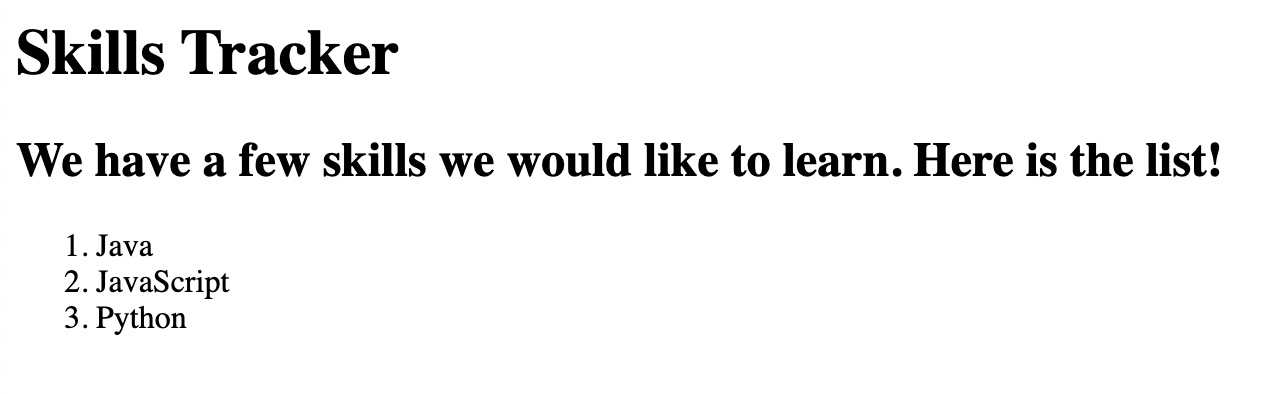
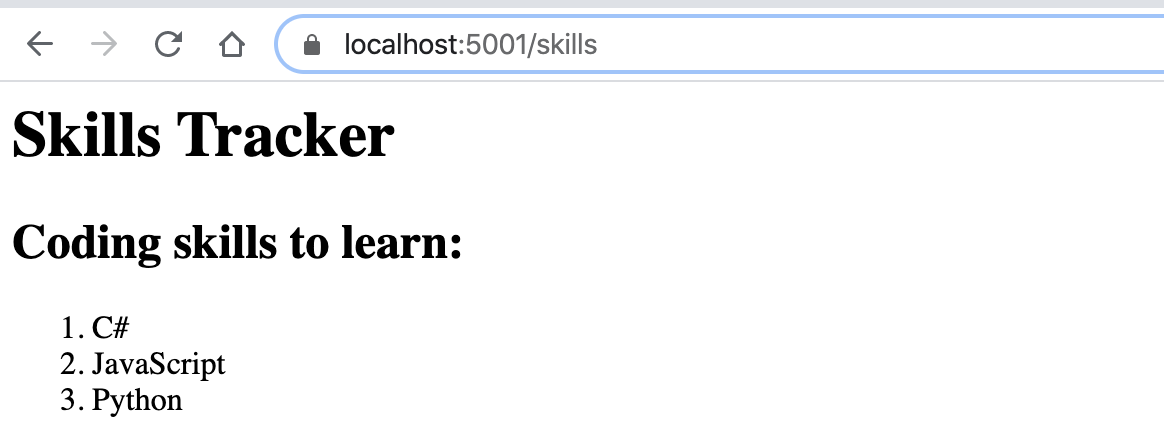
update language on skill tracking elements

diff --git a/src/chapters/aspdotnet-controllers-and-routes/studio.rst b/src/chapters/aspdotnet-controllers-and-routes/studio.rst
@@ -1,7 +1,7 @@
 Studio: Skills Tracker
 ======================
 
-Wouldn't it be nice to have a small tracker to show us what skills we have built and where we are at in learning them?
+Wouldn't it be nice to have a small tracker to show us what programming skills we are working on?
 Let's build something that would let us do just that!
 
 As always, read through the whole studio before starting.
@@ -19,29 +19,36 @@ underlying build errors to fix before coding. Now you are ready to start trackin
 Creating Controllers
 --------------------
 
-In your project, add a class called ``SkillsController`` inside of the ``Controllers`` folder.
+In your project, add a controller class called ``SkillsController`` inside the ``Controllers`` folder.
 Inside ``SkillsController``, you will add several methods to accomplish the following:
 
-#. At ``localhost:5001``, add text that states the three possible programming languages someone could be working on.
+#. At ``localhost:5001/skills``, add text that states the three possible programming languages someone could be working on.
    You need to have an ``h1`` with the title "Skills Tracker", an ``h2``, and an ``ol`` containing three programming languages 
    of your choosing.
-#. At ``localhost:5001/form``, add a form that lets the user enter their name and choose their favorite, second favorite, and 
-   third favorite programming languages on your list. Use ``select`` elements for each of the rankings. Just as we did in 
-   the exercises, we will use a ``GET`` request.
-#. Also at ``localhost:5001/form``, use ``[HttpPost]`` and request parameters to update the HTML with an ``h1`` stating the 
-   user's name and an ``ol`` showing the three programming languages in the order they chose.
+#. At ``localhost:5001/skills/form``, add a form that lets the user enter a date and choose their learning progress in each of 
+   the programming skills listed at ``/skills``.
+
+   .. admonition:: Tip
+
+      Use the `date input type <https://developer.mozilla.org/en-US/docs/Web/HTML/Element/input/date>`__. Note that the value is 
+      a ``string`` type. 
+      
+      For each of the skills, use ``select`` elements for selecting a description of progress. 
+
+#. Also at ``localhost:5001/skills/form``, use ``[HttpPost]`` and request parameters to update the HTML with an ``h1`` stating the 
+   submitted date and a list showing the user's learning progress in the three programming languages they chose.
 
 End Result
 ----------
 
-At the end of the studio, when you navigate to ``localhost:5001``, you should see the following:
+At the end of the studio, when you navigate to ``localhost:5001/skills``, you should see the following:
 
 .. figure:: figures/studio-home-page.png
    :alt: Image showing functioning home page.
 
    Skill Tracker app home page.
 
-When you navigate to ``localhost:5001/form``, you should see a blank form that looks something like: 
+When you navigate to ``localhost:5001/skills/form``, you should see a blank form that looks something like: 
 
 .. figure:: figures/blank-studio-form.png
    :alt: Image showing the blank form.
